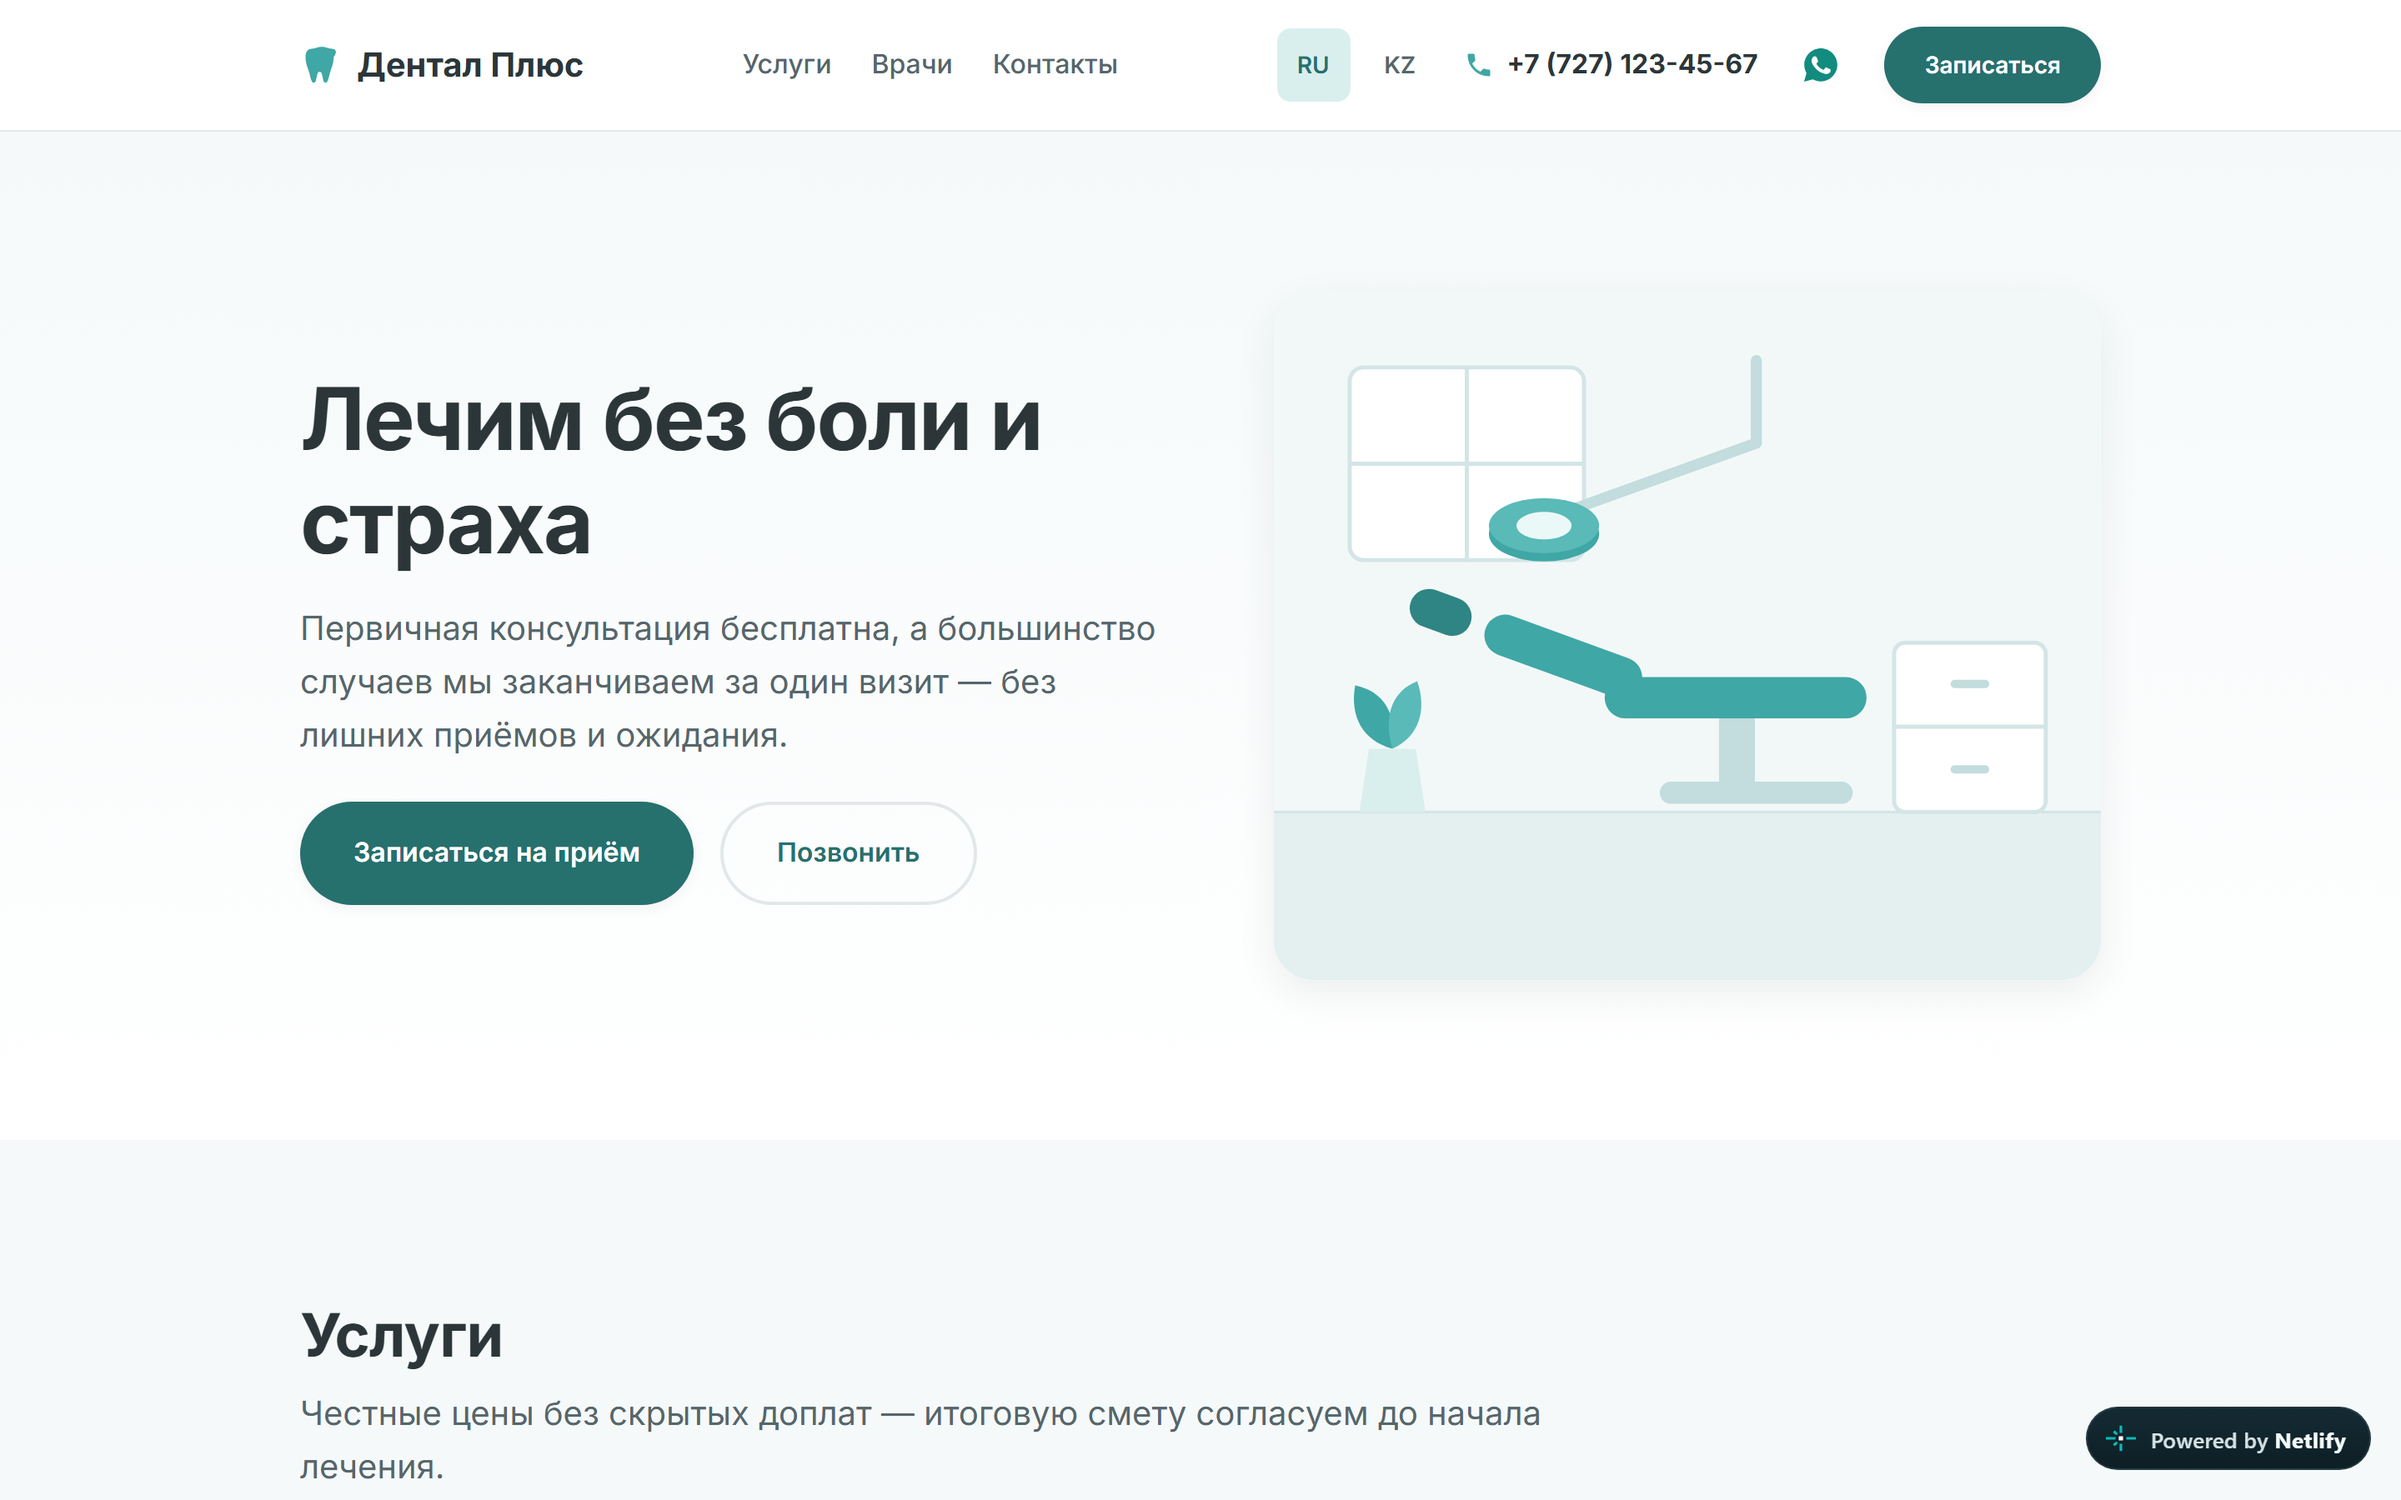
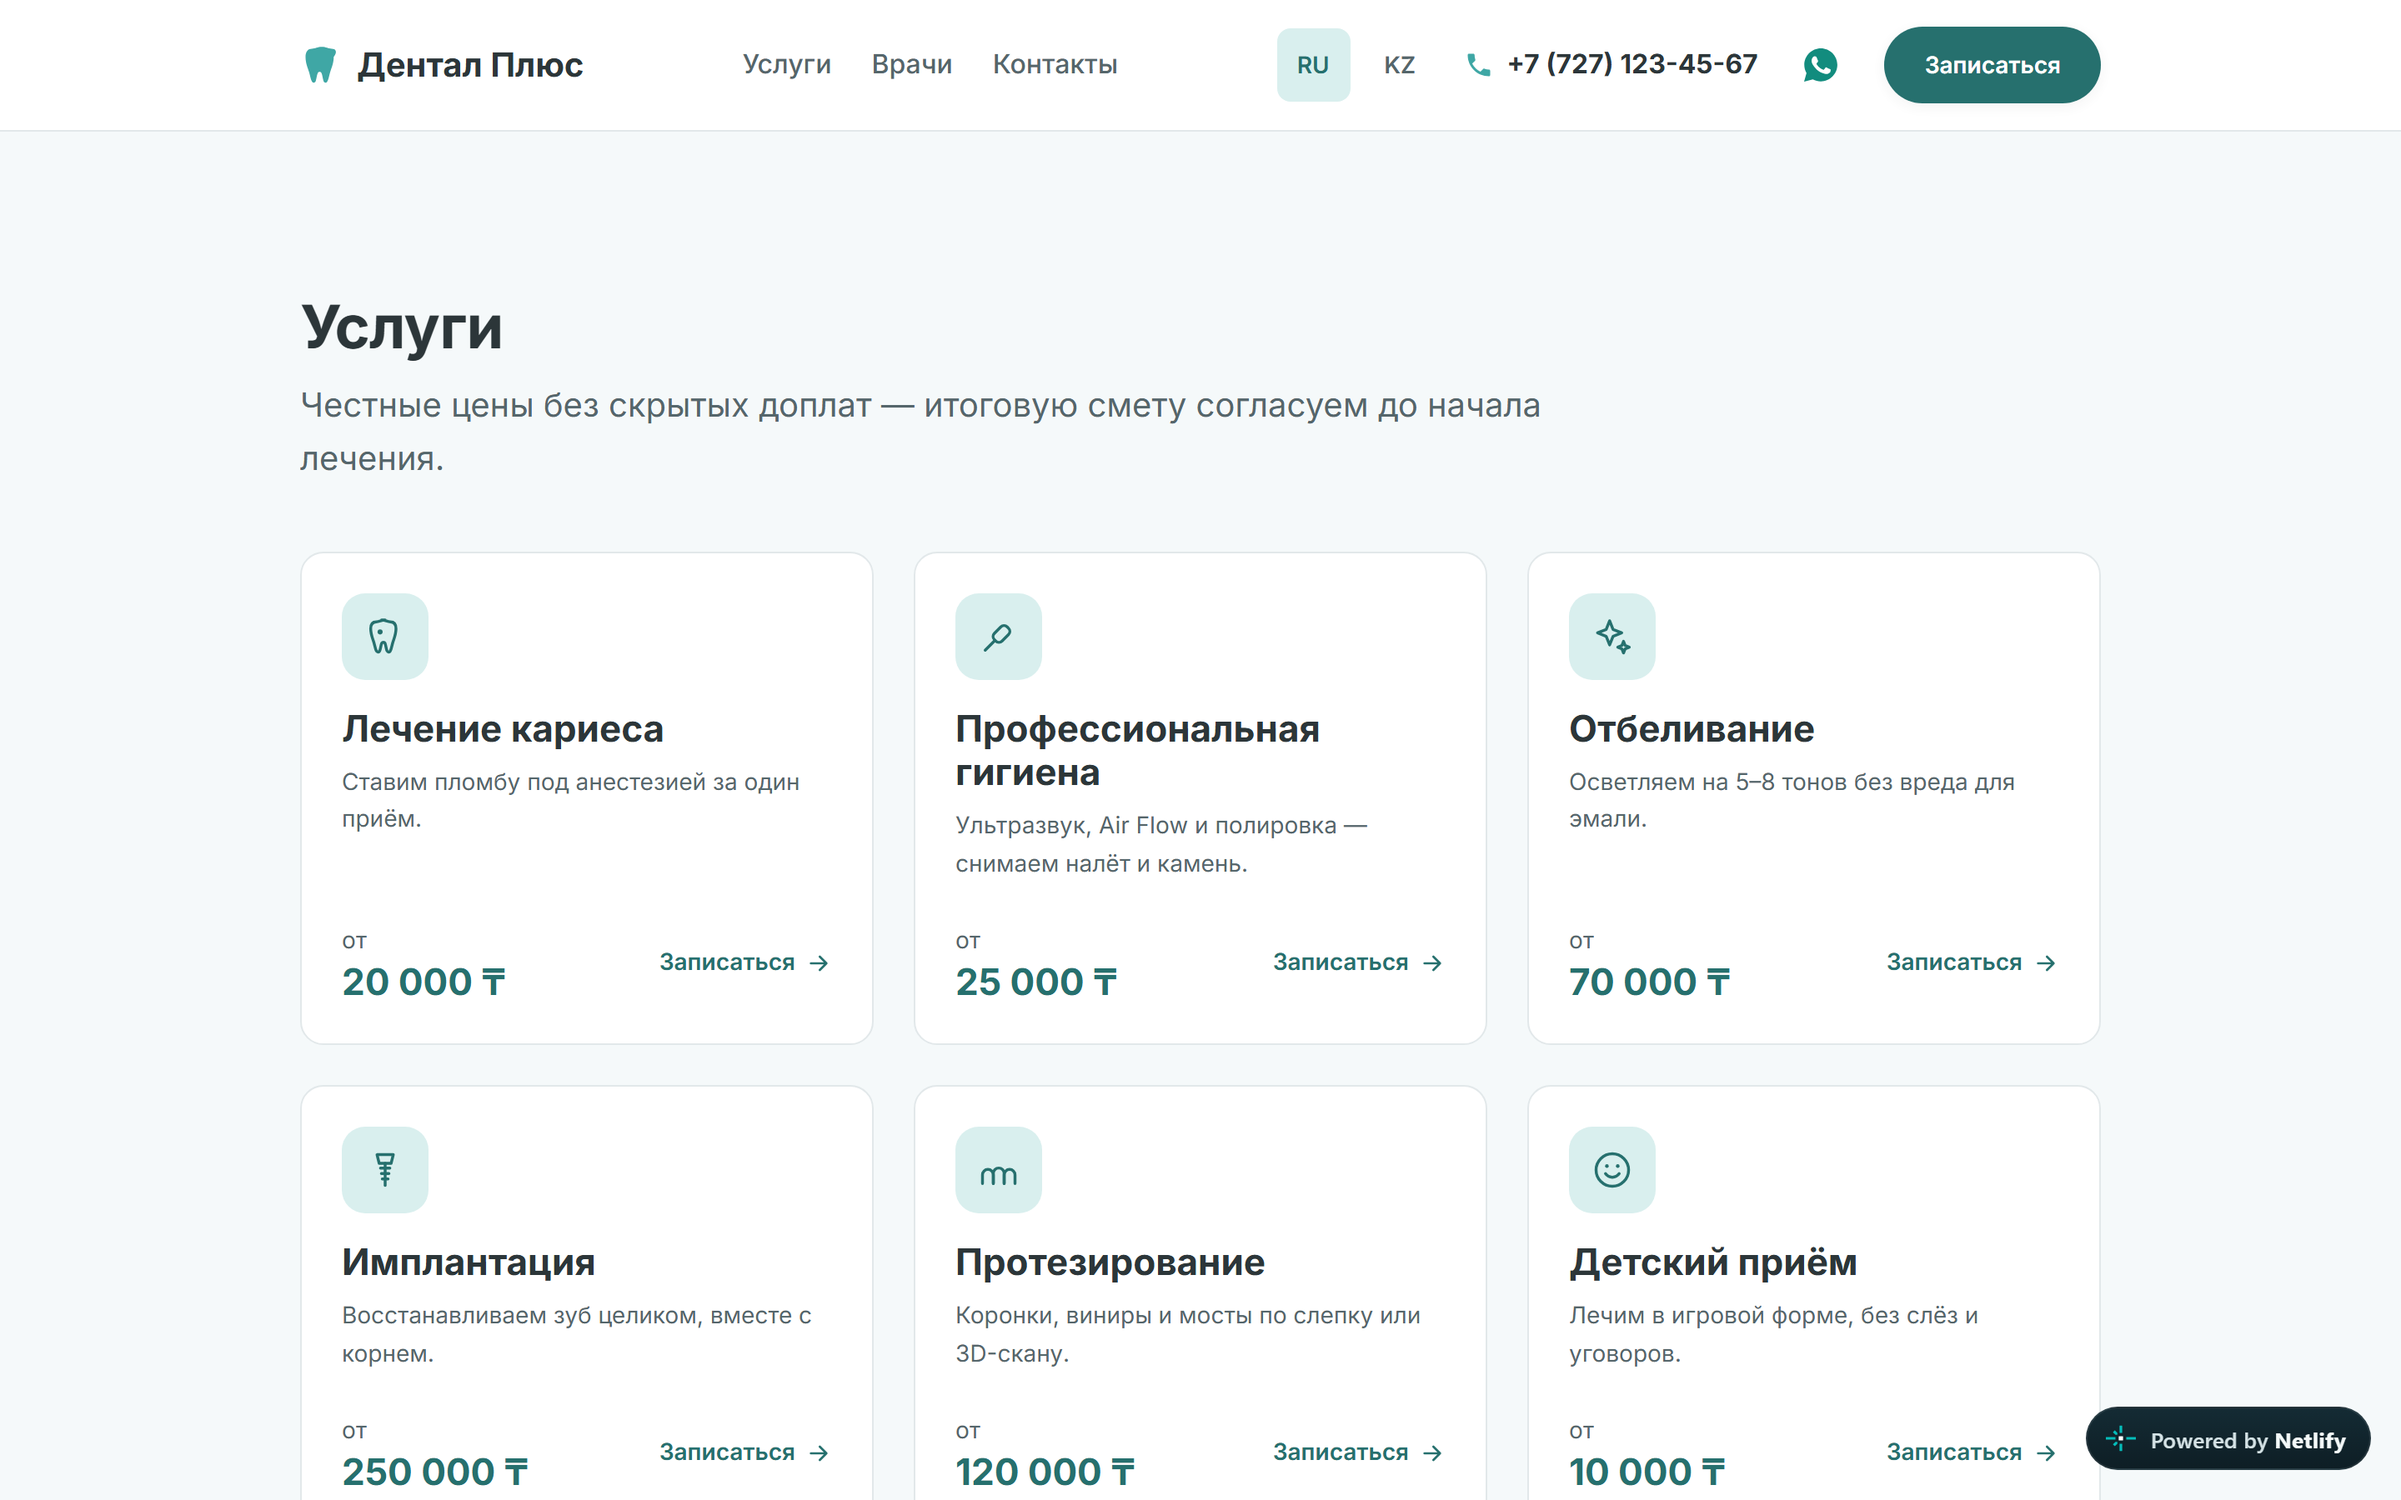
Aim each screenshot at the part of the work worth seeing
Two optional fields carry it. screenshotScroll says how far down the page
to scroll before the shot, and screenshotStorage says what to put in the
site's localStorage before it loads. Neither is set for DALA, so nothing
changes there.

Дентал Плюс now shows the six services with their prices instead of the
hero. Its language lives in localStorage, not in the URL — ?lang=ru is
ignored — so the shot depended on whatever the browser happened to hold;
the run that produced the old image only came out Russian because the
context was empty. The script now writes lang=ru before the page loads.
Verified against a context deliberately left on Kazakh: the heading still
came back "Услуги".

Shart AI shows the three feature cards, and the scroll is set 65px above
the section so its heading clears the fixed header. Bloom points at the
orchid page, where a flower fills the frame and the family is listed
beside it, instead of the near-empty family carousel.

Alt text follows the frames: it described pages that are no longer shown.
Shart AI's description now separates the two states the English banner on
the site collapses into one, so "no backend" cannot be read as "there is
no server side".

Claude-Session: https://claude.ai/code/session_011uPGg1ysWGucF6mPUxA8mY

diff --git a/v2/src/data/projects.ts b/v2/src/data/projects.ts
@@ -17,6 +17,18 @@ export interface Project {
    */
   screenshotUrl?: string;
   /**
+   * На сколько пикселей прокрутить страницу перед снимком, если работу
+   * показывает не первый экран, а блок ниже. Без этого поля
+   * снимается первый экран.
+   */
+  screenshotScroll?: number;
+  /**
+   * Что положить в localStorage сайта до загрузки. Нужно тем работам,
+   * где язык или другое состояние хранится в браузере, а не в адресе:
+   * без этого снимок зависел бы от того, что осталось с прошлого раза.
+   */
+  screenshotStorage?: Record<string, string>;
+  /**
    * Имя файла скриншота в src/assets/projects (например "dala-coffee.png").
    * Пустая строка означает, что скриншота ещё нет, и карточка просто
    * отрисуется без картинки.
@@ -46,8 +58,10 @@ export const projects: Project[] = [
     description:
       "Шесть услуг с ценами. Рядом врачи с фотографиями. Пациент записывается через форму и сразу выбирает нужную услугу. Кнопка WhatsApp видна на любом экране.",
     url: "https://dental-plus-kz.netlify.app/",
+    screenshotScroll: 605,
+    screenshotStorage: { lang: "ru" },
     image: "dental-plus.png",
-    imageAlt: "Главная страница сайта стоматологии Дентал Плюс",
+    imageAlt: "Раздел услуг с ценами на сайте стоматологии Дентал Плюс",
     featured: true,
   },
   {
@@ -55,11 +69,12 @@ export const projects: Project[] = [
     title: "Shart AI",
     subtitle: "Ассистент по документам, демо",
     description:
-      "Сотрудник компании загружает рабочие файлы и задаёт по ним вопросы, а ответ собирается из содержимого документов. Понимает сканы и распознаёт речь. По ссылке открывается интерфейс с готовыми данными, рабочий сервер сейчас выключен.",
+      "Сотрудник компании загружает рабочие файлы и задаёт по ним вопросы, а ответ собирается из содержимого документов. Понимает сканы и распознаёт речь. По ссылке открывается сама страница с заранее подготовленными ответами, а та часть, что читает документы, написана, но сейчас не запущена.",
     url: "https://shartai.netlify.app/",
+    screenshotScroll: 1526,
     image: "shart-ai.png",
     imageAlt:
-      "Главная страница Shart AI с примером диалога по документам",
+      "Раздел возможностей на сайте Shart AI с тремя карточками",
     featured: false,
   },
   {
@@ -69,9 +84,9 @@ export const projects: Project[] = [
     description:
       "Собирала его на английском, чтобы научиться делать сайты из нескольких страниц.",
     url: "https://bloomings.netlify.app/",
-    screenshotUrl: "https://bloomings.netlify.app/flowers",
+    screenshotUrl: "https://bloomings.netlify.app/pages/species/orchidaceae.html",
     image: "bloom.png",
-    imageAlt: "Страница семейства цветов в справочнике Bloom",
+    imageAlt: "Страница орхидей в справочнике Bloom с фотографией цветка",
     featured: false,
   },
 ];
